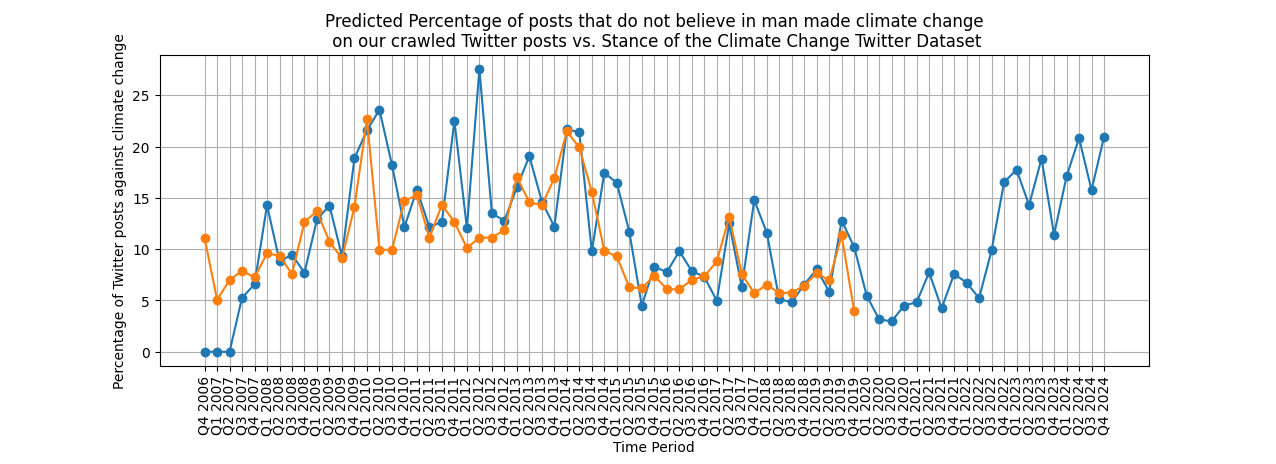
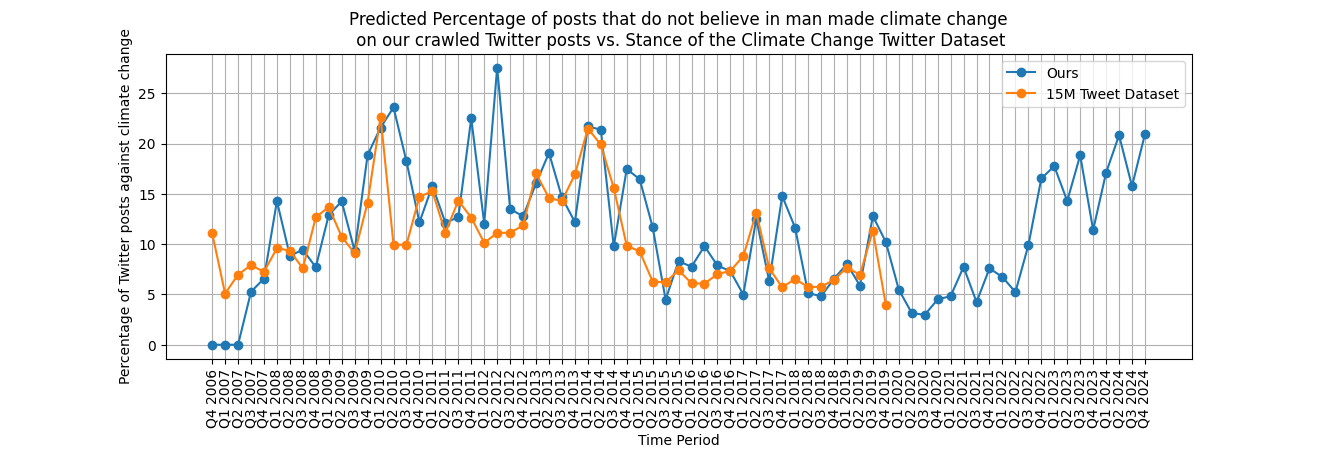
visualizations

Changed region(s): [[0.0917, 0.031, 0.9169, 0.9933]]

diff --git a/src/visualization.py b/src/visualization.py
@@ -3,16 +3,16 @@ import matplotlib.pyplot as plt
 
 # Load the dataset
 #df = pd.read_csv('bluesky_prediction.csv')
-df = pd.read_csv('social-media-sentiment-analysis/res/bertweet_gefilterte_daten_twitter_prediction.csv')
+df = pd.read_csv('bluesky_prediction.csv')
 df2 = pd.read_csv('social-media-sentiment-analysis/res/The Climate Change Twitter Dataset.csv')
 
 try:
     # Extract the year as an integer from the date string
-    #df['Jahr'] = df['date'].str[0:4].astype(int)  # Extracts 'YYYY' and converts it to int
+    df['Jahr'] = df['date'].str[0:4].astype(int)  # Extracts 'YYYY' and converts it to int
     df2['Jahr'] = df2['created_at'].str[0:4].astype(int)  # Extracts 'YYYY' and converts it to int
     
     # Extract the month as an integer from the date string
-    #df['Monat'] = df['date'].str[5:7].astype(int)  # Extracts 'MM' and converts it to int
+    df['Monat'] = df['date'].str[5:7].astype(int)  # Extracts 'MM' and converts it to int
     df2['Monat'] = df2['created_at'].str[5:7].astype(int)  # Extracts 'MM' and converts it to int
 
     # Create a quarter column
@@ -45,6 +45,9 @@ else:
     grouped = grouped.sort_values(by=['Jahr', 'Quartal'])
     grouped['yearQuarter'] = 'Q' + grouped['Quartal'].astype(str) + ' ' + grouped['Jahr'].astype(str)
 
+    # Save the grouped DataFrame to a CSV file
+    grouped[['yearQuarter', 'percentage_zeros']].to_csv('blueskyDenialPerQuartal.csv', index=False)
+
     grouped2 = grouped2.sort_values(by=['Jahr', 'Quartal'])
     grouped2['yearQuarter'] = 'Q' + grouped2['Quartal'].astype(str) + ' ' + grouped2['Jahr'].astype(str)
 
@@ -68,6 +71,7 @@ else:
 # Rotate x-axis labels by 90 degrees
 plt.xticks(rotation=90)
 plt.xlabel('Time Period')
+plt.legend(['Ours', '15M Tweet Dataset'])
 plt.ylabel('Percentage of Twitter posts against climate change')
 plt.title('Predicted Percentage of posts that do not believe in man made climate change\n on our crawled Twitter posts vs. Stance of the Climate Change Twitter Dataset')
 plt.grid(True)

diff --git a/src/vis.py b/src/vis.py
@@ -1,0 +1,42 @@
+import pandas as pd
+import matplotlib.pyplot as plt
+
+# CSV-Dateien einlesen
+csv_files = ['twitterDenialPerQuartal.csv', 'blueskyDenialPerQuartal.csv', 'youtubeDenialPerQuartal.csv']
+dfs = [pd.read_csv(file) for file in csv_files]
+
+# Wandeln Sie den 'yearQuarter'-String in ein Datum um, das sinnvoll für die X-Achse ist
+
+# Daten zusammenführen und ein einheitliches Zeitintervall bestimmen
+all_data = pd.concat(dfs)
+
+# Wandeln Sie den 'yearQuarter'-String in ein Datum um
+def convert_to_datetime(year_quarter):
+    quarter, year = year_quarter.split()
+    month_map = {'Q1': '01', 'Q2': '04', 'Q3': '07', 'Q4': '10'}
+    return pd.to_datetime(f"{year}-{month_map[quarter]}")
+
+all_data['date'] = all_data['yearQuarter'].apply(convert_to_datetime)
+
+# Beschrifte die X-Achse mit allen möglichen Quartalen
+combined_quarters = all_data['yearQuarter'].unique()
+combined_quarters.sort()
+
+plt.figure(figsize=(12, 6))
+
+for idx, df in enumerate(dfs):
+    df['date'] = df['yearQuarter'].apply(convert_to_datetime)
+    plt.plot(df['date'], df['percentage_zeros'], marker='o', label='Twitter'if idx == 0 else 'Bluesky' if idx == 1 else 'YouTube')
+
+# Setzen der X-Achsbeschriftungen
+plt.xticks(ticks=[convert_to_datetime(q) for q in combined_quarters], labels=combined_quarters, rotation=90)
+
+plt.xlabel('Time span')
+plt.ylabel('Percentage of denying comments')
+plt.title('Percentage of denying comments per quarter for different platforms')
+plt.legend()
+
+plt.tight_layout()
+
+# Diagramm anzeigen
+plt.show()
